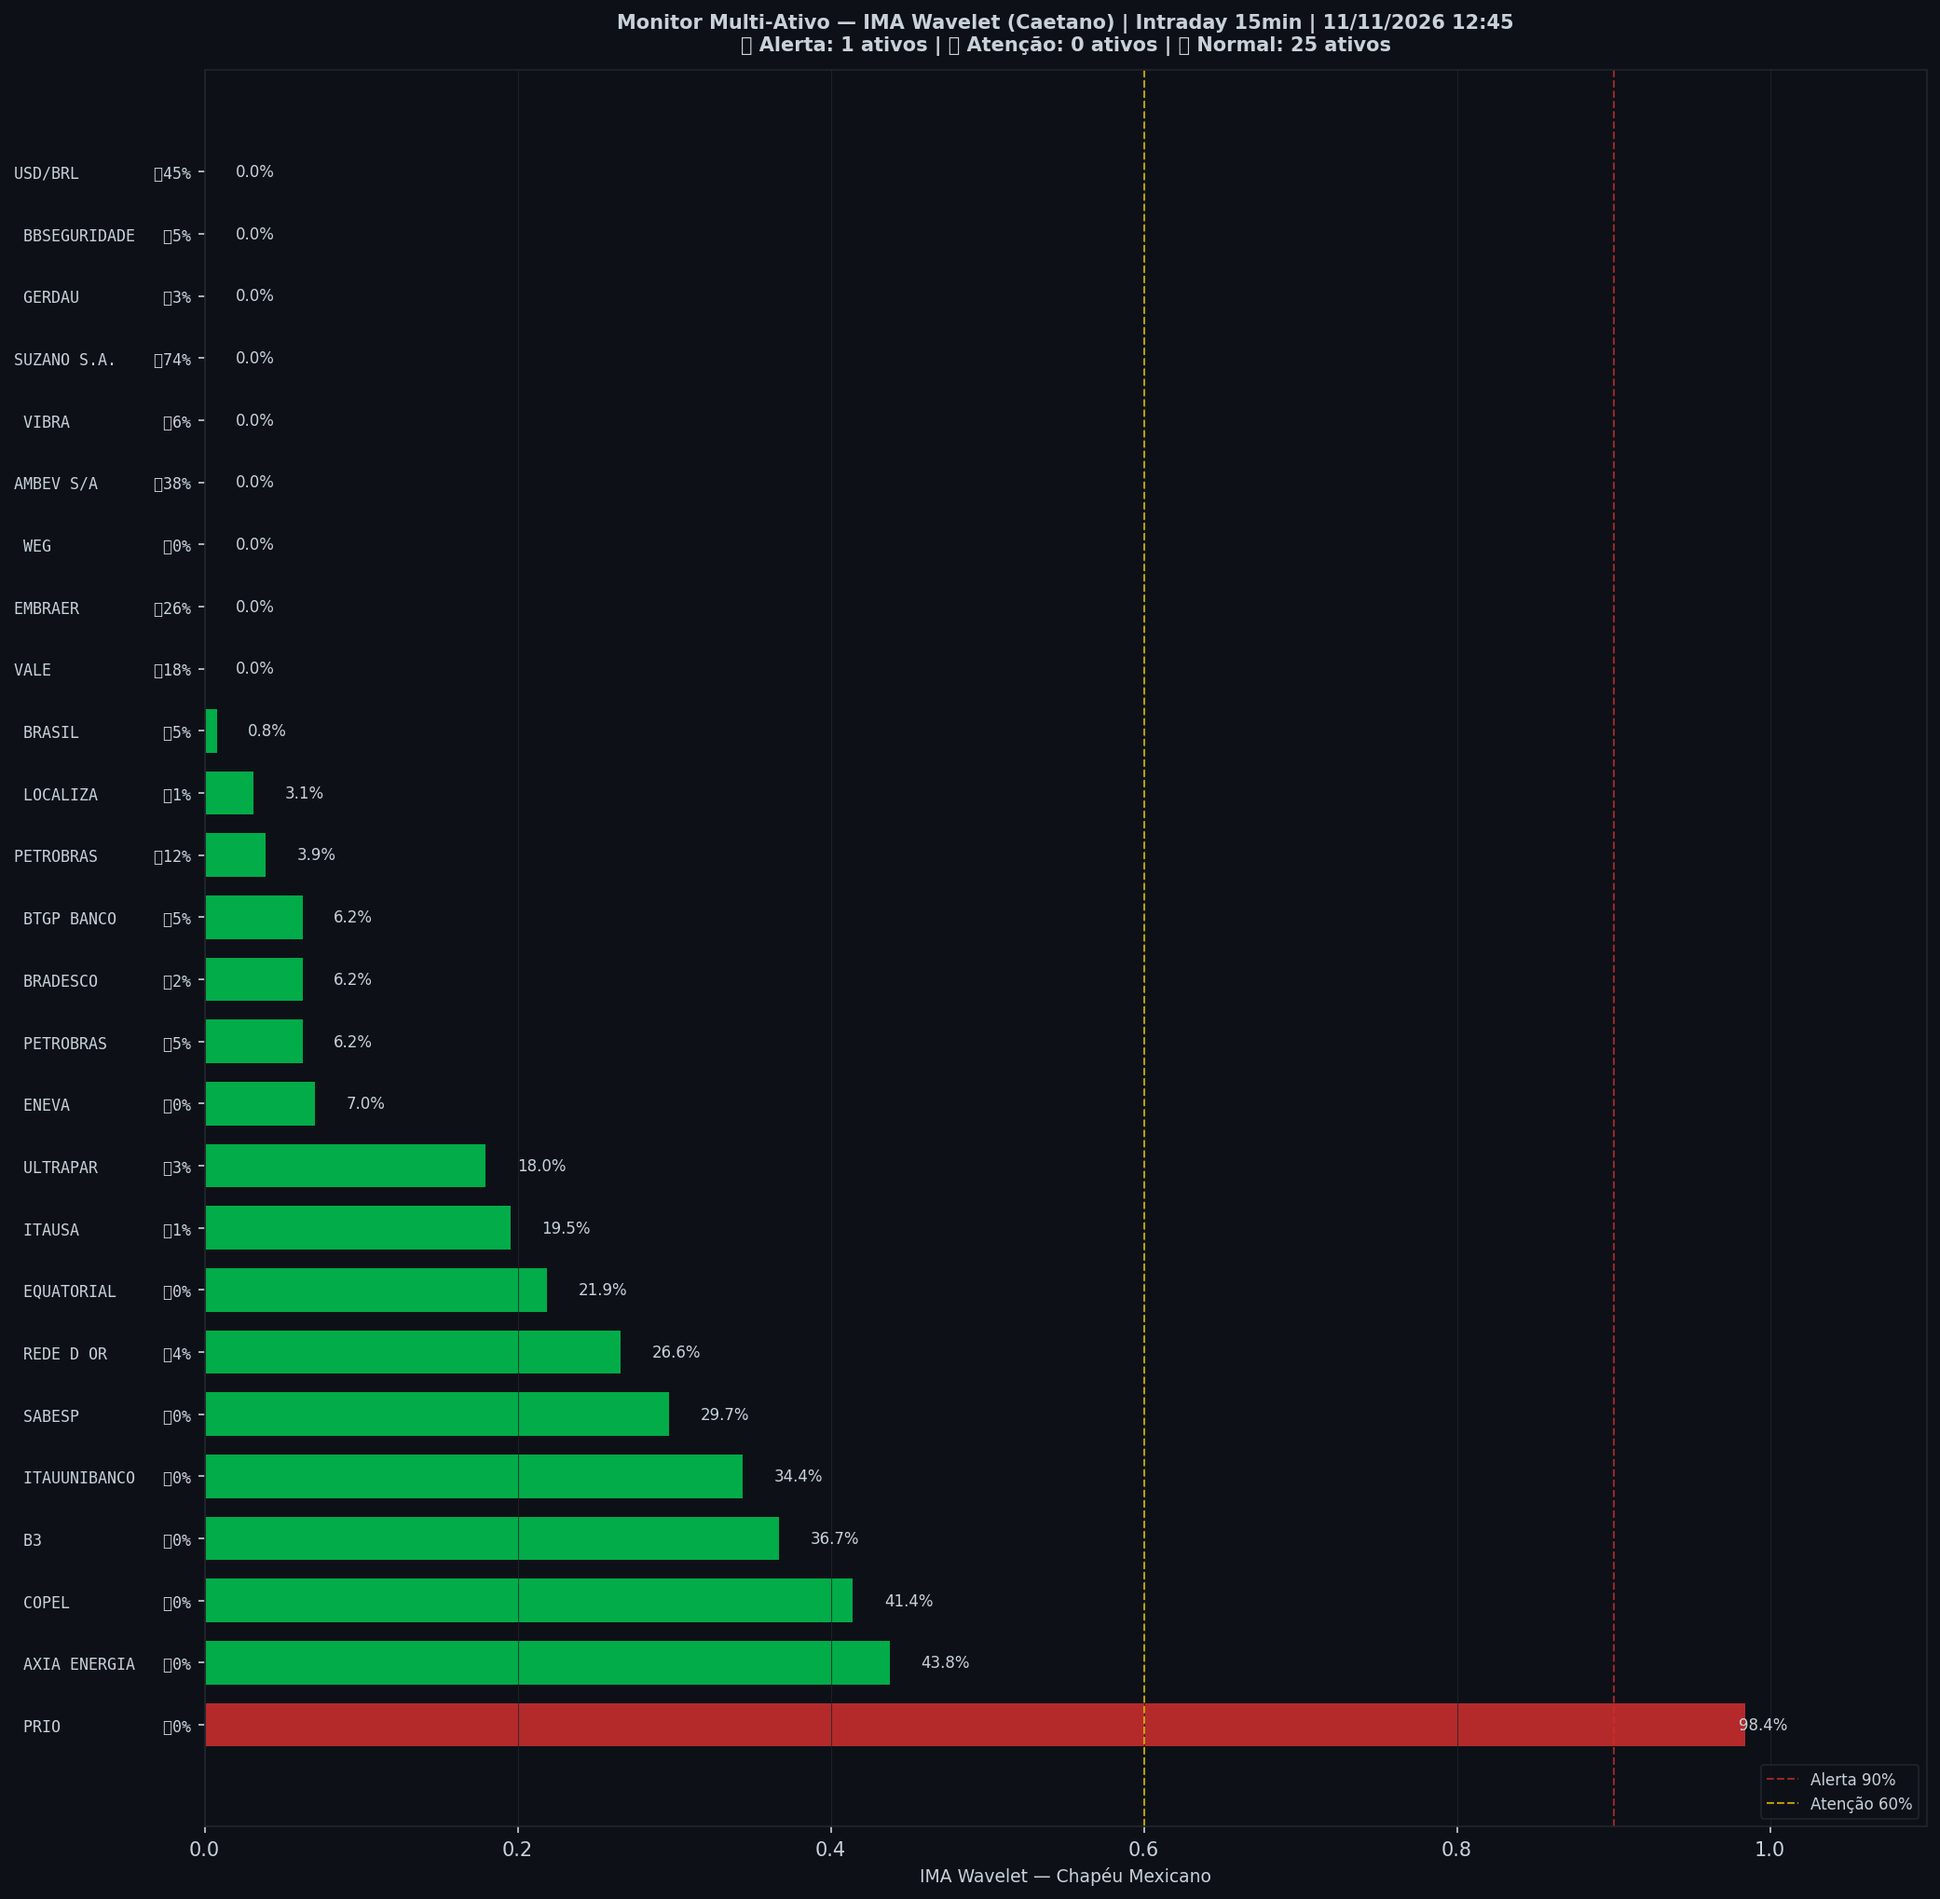
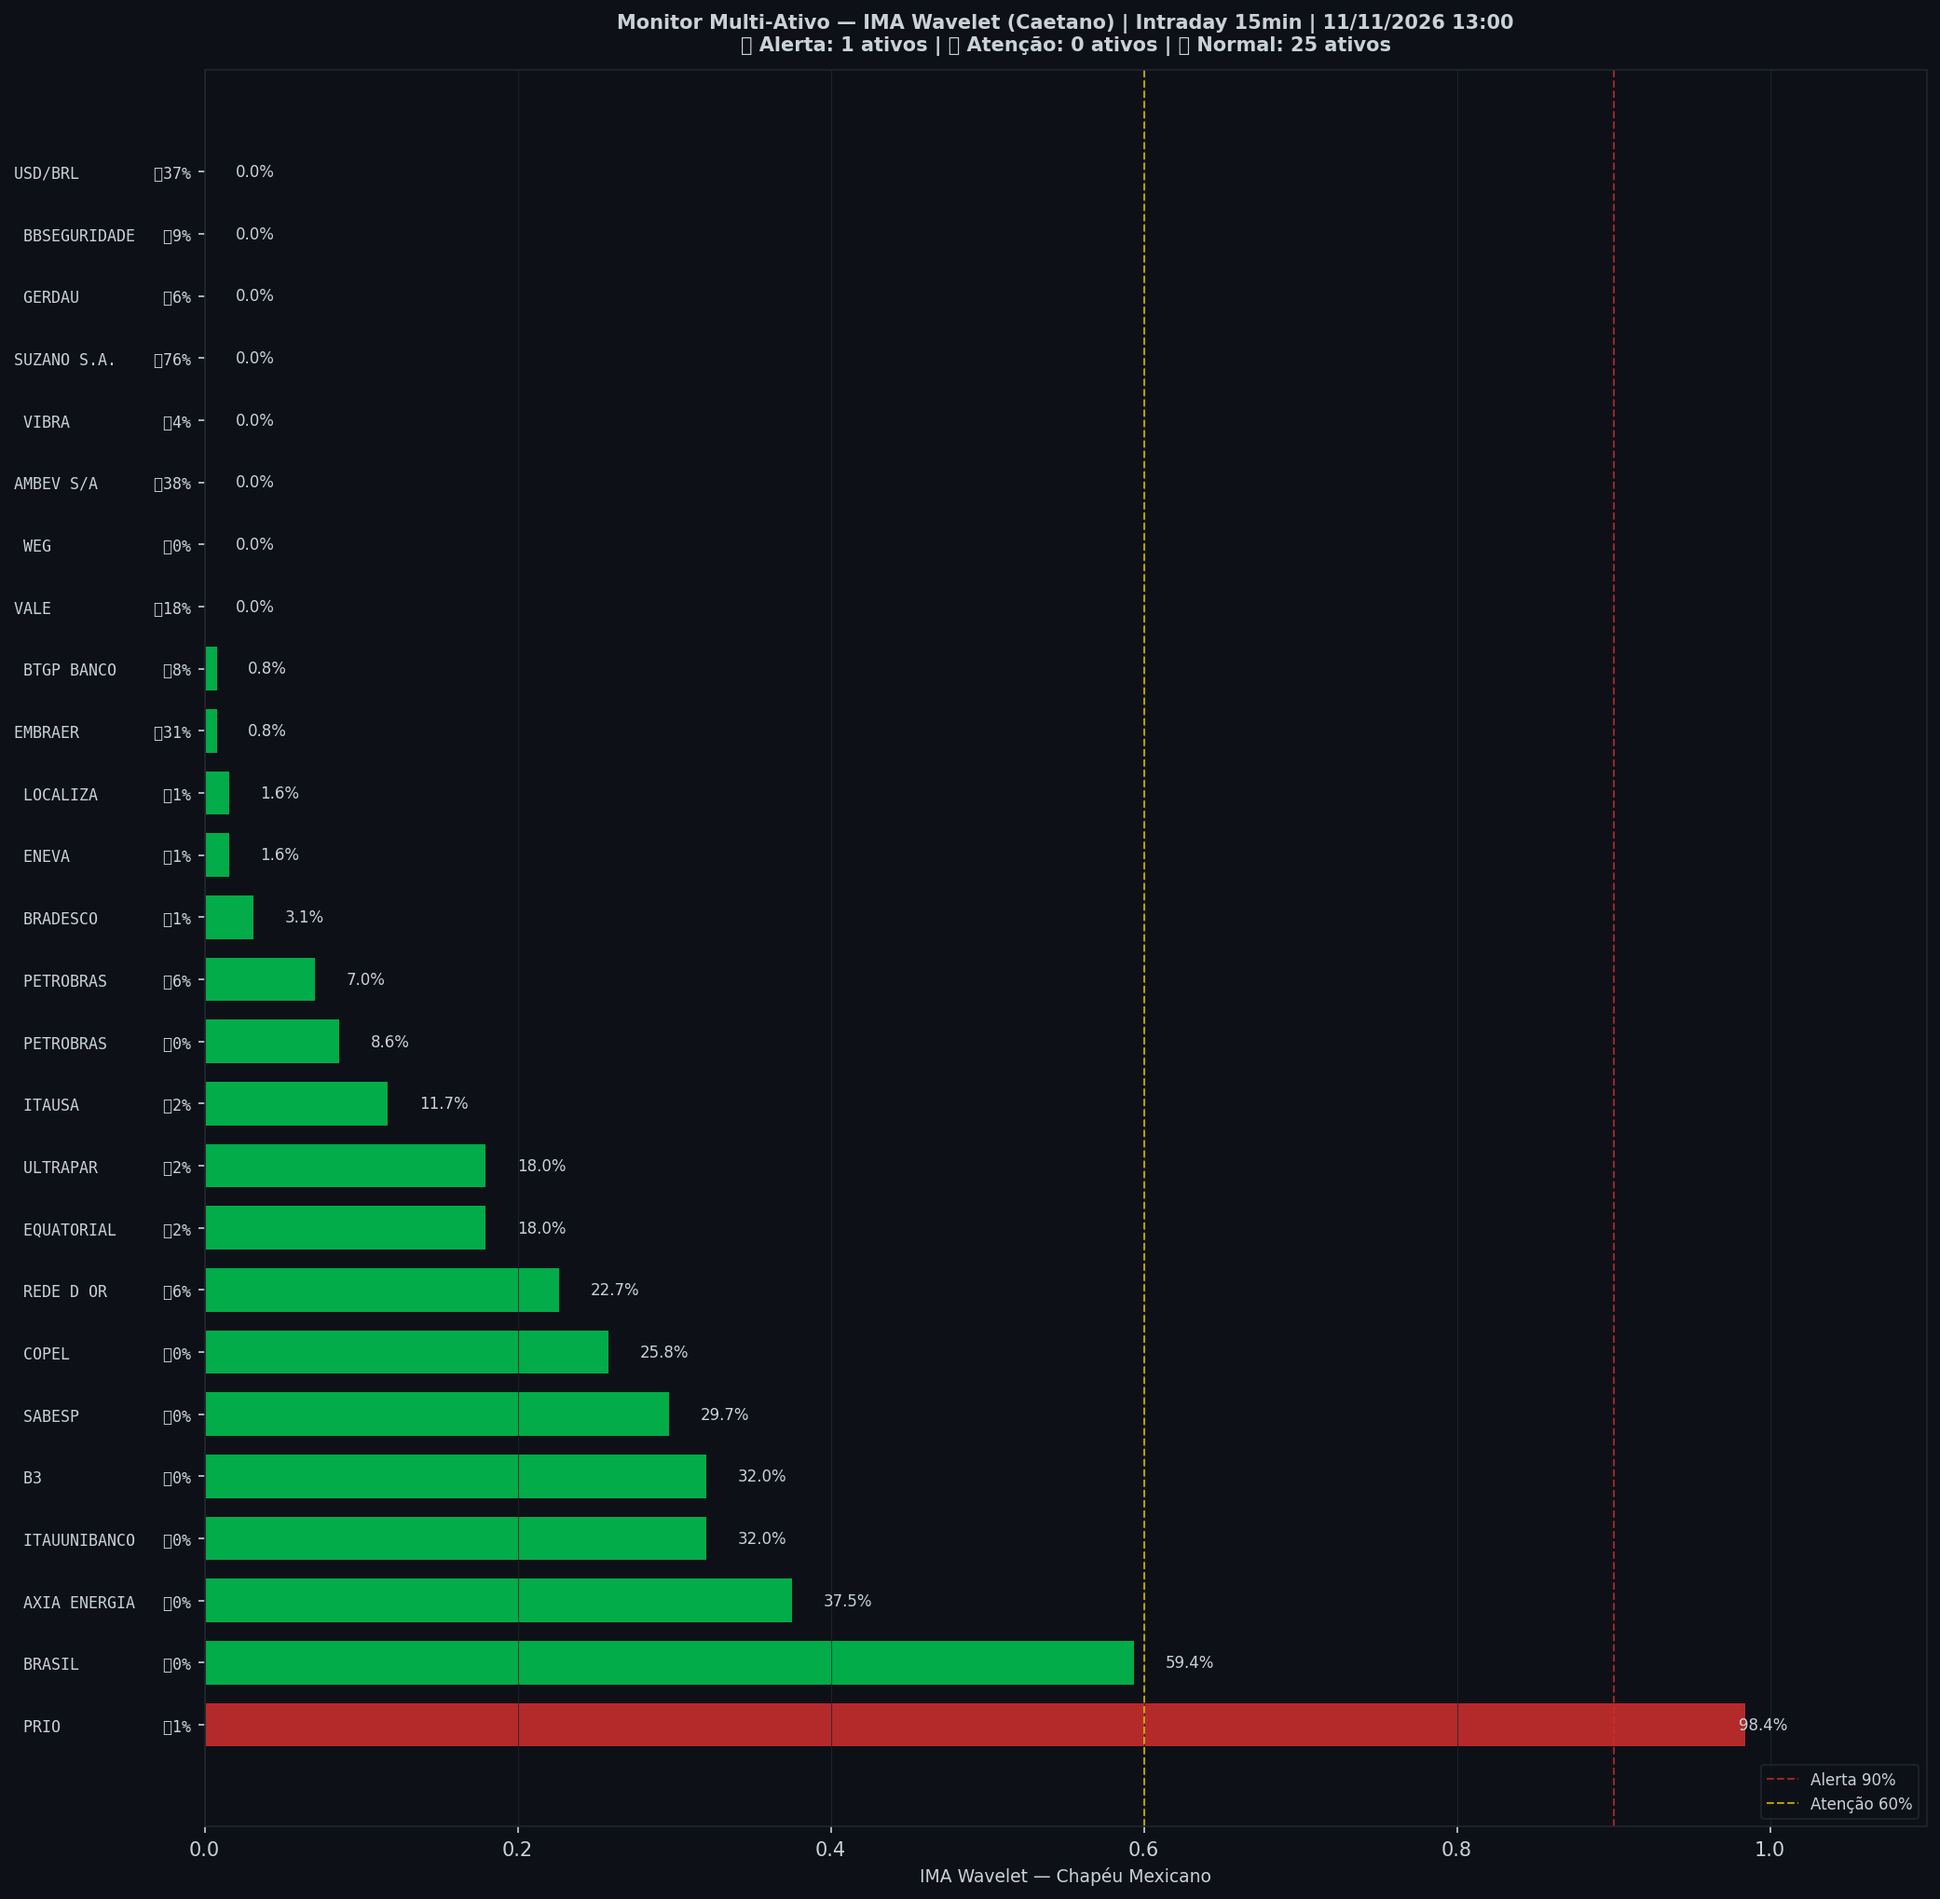
🤖 Auto: Sinal 11/11/2026 13:00

diff --git a/content/intraday/2026-11-11.md b/content/intraday/2026-11-11.md
@@ -1,10 +1,10 @@
 ---
-title: "🟢 Intraday 11/11/2026 12:30 BRT — VERDE"
+title: "🟢 Intraday 11/11/2026 12:45 BRT — VERDE"
 date: 2026-11-11
 tags: [intraday]
 ---
 
-> [!success] Onde o mercado está agora (11/11 12:30, candles de 15 min): **🟢 Calmo**
+> [!success] Onde o mercado está agora (11/11 12:45, candles de 15 min): **🟢 Calmo**
 > `Pânico ◀──────────●──────────▶ Euforia`
 >
 > O Ibovespa está dentro da sua faixa normal, sem excesso para cima nem para baixo.
@@ -20,7 +20,7 @@ tags: [intraday]
 > | 📍 **Sinais** | hoje: nenhum sinal | [abrir](sinais-topo-fundo/) |
 > | 🧪 **Placar ao vivo** | 1 operação(ões), 0 com lucro, soma -0,8% | [abrir](operacoes/) |
 
-> [!success] IMA Intraday · 15 min (11/11 12:30): 🟢 **VERDE** — Risco 0% · ＝ +0 p.p. vs leitura anterior
+> [!success] IMA Intraday · 15 min (11/11 12:45): 🟢 **VERDE** — Risco 0% · ＝ +0 p.p. vs leitura anterior
 > `░░░░░░░░░░░░░░░░░░░░`
 > Preço na faixa normal em torno da tendência.
 
@@ -32,13 +32,13 @@ tags: [intraday]
 >
 > *Leitura educacional baseada em 26 anos de dados, não recomendação. [Como usar](../metodologia/crise#3-como-usar-na-prática).*
 
-| Indicador — IMA Intraday · 15 min (11/11 12:30) | Valor |
+| Indicador — IMA Intraday · 15 min (11/11 12:45) | Valor |
 |---|---|
 | 🔴 ζ Topo — preço esticado acima da tendência | **0%** |
 | 🔵 ζ Fundo — preço esticado abaixo da tendência | 0% |
 | 🫧 LPPL bolha — alta super-exponencial (risco de crash) | 0% |
 | 🫧 LPPL antibolha — queda super-exponencial (risco de repique) | 0% |
-| 📊 Ibovespa | 172.890 pts |
+| 📊 Ibovespa | 172.664 pts |
 
 ![Gráfico do sinal](../graficos/sinal_intraday.png)
 
@@ -46,6 +46,7 @@ tags: [intraday]
 
 | Data | Zona | Evento | Risco | ζ Topo | ζ Fundo | LPPL |
 |---|---|---|---|---|---|---|
+| 2026-11-11 12:45 | 🟢 VERDE |  | **0%** | 0% | 0% | 0% |
 | 2026-11-11 12:30 | 🟢 VERDE |  | **0%** | 0% | 0% | 0% |
 | 2026-11-11 12:15 | 🟢 VERDE |  | **0%** | 0% | 0% | 0% |
 | 2026-11-11 12:00 | 🟢 VERDE |  | **2%** | 2% | 0% | 0% |
@@ -75,7 +76,6 @@ tags: [intraday]
 | 2026-11-10 14:15 | 🟢 VERDE |  | **0%** | 0% | 14% | 0% |
 | 2026-11-10 14:00 | 🟢 VERDE |  | **0%** | 0% | 15% | 0% |
 | 2026-11-10 13:45 | 🟢 VERDE |  | **0%** | 0% | 16% | 0% |
-| 2026-11-10 13:30 | 🟢 VERDE |  | **0%** | 0% | 15% | 0% |
 
 <small>Destaques: 🟡 ≥ 60% · 🔴 ≥ 90% (Risco e ζ Topo) · 🔵 ≥ 60% · 🔪 ≥ 90% (ζ Fundo) · 🫧 ≥ 30% · 🫧🔴 ≥ 50% (LPPL)</small>
 
@@ -84,42 +84,42 @@ tags: [intraday]
 **4% dos ativos em tensão** (1🔴 0🟡) · **1 com ζ Fundo alto** — quanto mais ativos disparam juntos, mais confiável o sinal.
 
 > [!danger] Em destaque no multi-ativo
-> 🔴 **PRIO** ζ Topo 98% · 🔵 **SUZANO S.A.** ζ Fundo 74%
+> 🔴 **PRIO** ζ Topo 98% · 🔵 **SUZANO S.A.** ζ Fundo 76%
 
 | Zona | Ativo | Setor | ζ Topo | ζ Fundo |
 |---|---|---|---|---|
-| 🔴 | **PRIO** | Petróleo | 🔴 **98.4%** | 0.0% |
-| 🟢 | **SUZANO S.A.** | Papel/Celulose | 0.0% | 🔵 **74.2%** |
-| 🟢 | **USD/BRL** | Câmbio | 0.0% | 44.5% |
-| 🟢 | **AXIA ENERGIA** | Energia | 43.8% | 0.0% |
-| 🟢 | **COPEL** | Energia | 41.4% | 0.0% |
+| 🔴 | **PRIO** | Petróleo | 🔴 **98.4%** | 0.8% |
+| 🟢 | **SUZANO S.A.** | Papel/Celulose | 0.0% | 🔵 **75.8%** |
+| 🟢 | **BRASIL** | Financeiro | 59.4% | 0.0% |
+| 🟢 | **AXIA ENERGIA** | Energia | 37.5% | 0.0% |
 | 🟢 | **AMBEV S/A** | Consumo | 0.0% | 37.5% |
-| 🟢 | **B3** | Financeiro | 36.7% | 0.0% |
-| 🟢 | **ITAUUNIBANCO** | Financeiro | 34.4% | 0.0% |
+| 🟢 | **USD/BRL** | Câmbio | 0.0% | 36.7% |
+| 🟢 | **ITAUUNIBANCO** | Financeiro | 32.0% | 0.0% |
+| 🟢 | **B3** | Financeiro | 32.0% | 0.0% |
+| 🟢 | **EMBRAER** | Outros | 0.8% | 31.2% |
 | 🟢 | **SABESP** | Saneamento | 29.7% | 0.0% |
-| 🟢 | **REDE D OR** | Saúde | 26.6% | 3.9% |
-| 🟢 | **EMBRAER** | Outros | 0.0% | 25.8% |
-| 🟢 | **EQUATORIAL** | Energia | 21.9% | 0.0% |
-| 🟢 | **ITAUSA** | Financeiro | 19.5% | 0.8% |
+| 🟢 | **COPEL** | Energia | 25.8% | 0.0% |
+| 🟢 | **REDE D OR** | Saúde | 22.7% | 6.2% |
 | 🟢 | **VALE** | Mineração | 0.0% | 18.0% |
-| 🟢 | **ULTRAPAR** | Outros | 18.0% | 3.1% |
-| 🟢 | **PETROBRAS** | Petróleo | 3.9% | 11.7% |
-| 🟢 | **ENEVA** | Energia | 7.0% | 0.0% |
-| 🟢 | **PETROBRAS** | Petróleo | 6.2% | 4.7% |
-| 🟢 | **BRADESCO** | Financeiro | 6.2% | 2.3% |
-| 🟢 | **BTGP BANCO** | Financeiro | 6.2% | 4.7% |
-| 🟢 | **VIBRA** | Energia | 0.0% | 6.2% |
-| 🟢 | **BBSEGURIDADE** | Financeiro | 0.0% | 5.5% |
-| 🟢 | **BRASIL** | Financeiro | 0.8% | 4.7% |
-| 🟢 | **GERDAU** | Siderurgia | 0.0% | 3.1% |
-| 🟢 | **LOCALIZA** | Aluguel | 3.1% | 0.8% |
+| 🟢 | **EQUATORIAL** | Energia | 18.0% | 1.6% |
+| 🟢 | **ULTRAPAR** | Outros | 18.0% | 1.6% |
+| 🟢 | **ITAUSA** | Financeiro | 11.7% | 2.3% |
+| 🟢 | **BBSEGURIDADE** | Financeiro | 0.0% | 9.4% |
+| 🟢 | **PETROBRAS** | Petróleo | 8.6% | 0.0% |
+| 🟢 | **BTGP BANCO** | Financeiro | 0.8% | 7.8% |
+| 🟢 | **PETROBRAS** | Petróleo | 7.0% | 6.2% |
+| 🟢 | **GERDAU** | Siderurgia | 0.0% | 6.2% |
+| 🟢 | **VIBRA** | Energia | 0.0% | 3.9% |
+| 🟢 | **BRADESCO** | Financeiro | 3.1% | 0.8% |
+| 🟢 | **ENEVA** | Energia | 1.6% | 0.8% |
+| 🟢 | **LOCALIZA** | Aluguel | 1.6% | 0.8% |
 | 🟢 | **WEG** | Industrial | 0.0% | 0.0% |
 
 <small>Destaques: 🟡 ≥ 60% · 🔴 ≥ 90% (Risco e ζ Topo) · 🔵 ≥ 60% · 🔪 ≥ 90% (ζ Fundo) · 🫧 ≥ 30% · 🫧🔴 ≥ 50% (LPPL)</small>
 
 ![Monitor multi-ativo](../graficos/multi_intraday.png)
 
-*Página atualizada em 11/11/2026 12:45 BRT (leitura da barra de 2026-11-11 12:30 BRT).*
+*Página atualizada em 11/11/2026 13:00 BRT (leitura da barra de 2026-11-11 12:45 BRT).*
 
 > [!warning] O que este indicador não faz
 > Medido em 5 anos de Ibovespa, o ζ **não antecipa** topos nem fundos: a capacidade de separar o que sobe do que cai ficou em 0,49–0,52, e 0,50 é moeda jogada ao ar. Ele descreve o estado de agora; não é aviso do que vem. As zonas verde/amarelo/vermelho continuam na página como descrição desse estado — **não as use como sinal de entrada ou saída**.

diff --git a/content/index.md b/content/index.md
@@ -6,9 +6,9 @@ tags: [home]
 
 **As ondas do mercado, explicadas.** Leitura do Ibovespa com estatística de 26 anos, baseada no trabalho de pesquisadores e traders reconhecidos e adaptada por Jarbas Daniel da Costa.
 
-*Última atualização: 11/11/2026 12:45 BRT · Intraday 15min*
+*Última atualização: 11/11/2026 13:00 BRT · Intraday 15min*
 
-> [!success] Onde o mercado está agora (11/11 12:30, candles de 15 min): **🟢 Calmo**
+> [!success] Onde o mercado está agora (11/11 12:45, candles de 15 min): **🟢 Calmo**
 > `Pânico ◀──────────●──────────▶ Euforia`
 >
 > O Ibovespa está dentro da sua faixa normal, sem excesso para cima nem para baixo.
@@ -44,18 +44,18 @@ tags: [home]
 > *Leitura educacional baseada em 26 anos de dados, não recomendação. [Como usar](metodologia/crise#3-como-usar-na-prática).*
 
 > [!info]- 🌊 Detalhes do Sinal IMA (indicadores e últimos 7 pregões)
-> > [!success] IMA Intraday · 15 min (11/11 12:30): 🟢 **VERDE** — Risco 0% · ＝ +0 p.p. vs leitura anterior
+> > [!success] IMA Intraday · 15 min (11/11 12:45): 🟢 **VERDE** — Risco 0% · ＝ +0 p.p. vs leitura anterior
 > > `░░░░░░░░░░░░░░░░░░░░`
 > > Preço na faixa normal em torno da tendência.
 >
 >
-> | Indicador — IMA Intraday · 15 min (11/11 12:30) | Valor |
+> | Indicador — IMA Intraday · 15 min (11/11 12:45) | Valor |
 > |---|---|
 > | 🔴 ζ Topo — preço esticado acima da tendência | **0%** |
 > | 🔵 ζ Fundo — preço esticado abaixo da tendência | 0% |
 > | 🫧 LPPL bolha — alta super-exponencial (risco de crash) | 0% |
 > | 🫧 LPPL antibolha — queda super-exponencial (risco de repique) | 0% |
-> | 📊 Ibovespa | 172.890 pts |
+> | 📊 Ibovespa | 172.664 pts |
 >
 > **Multi-ativo:** 4% em tensão (1🔴 0🟡 de 26 ativos)
 >

diff --git a/content/historico.md b/content/historico.md
@@ -5,7 +5,7 @@ tags: [historico]
 
 # 📜 Histórico de leituras (v5)
 
-**2.289 leituras** desde 2026-07-03. Na página ficam os últimos 3 dias leitura por leitura e o resumo de cada dia anterior; o registro inteiro está no arquivo para baixar.
+**2.290 leituras** desde 2026-07-03. Na página ficam os últimos 3 dias leitura por leitura e o resumo de cada dia anterior; o registro inteiro está no arquivo para baixar.
 
 [**Baixar o histórico completo**](historico-completo.csv) (100 KB · abre no Excel e no LibreOffice)
 
@@ -16,6 +16,7 @@ tags: [historico]
 
 | Data | Modo | Zona | Risco | IMA | LPPL |
 |---|---|---|---|---|---|
+| 2026-11-11 12:45 | intraday | 🟢 VERDE | 0% | 0% | 0% |
 | 2026-11-11 12:30 | intraday | 🟢 VERDE | 0% | 0% | 0% |
 | 2026-11-11 12:15 | intraday | 🟢 VERDE | 0% | 0% | 0% |
 | 2026-11-11 12:00 | intraday | 🟢 VERDE | 2% | 2% | 0% |

diff --git a/content/operacoes/ranking.md b/content/operacoes/ranking.md
@@ -5,7 +5,7 @@ tags: [operacoes]
 description: "As regras de compra do site ordenadas pelo resultado, com treino, teste e placar ao vivo"
 ---
 
-*Atualizado 11/11/2026 12:45 · histórico simulado com as regras congeladas em 23/10/2026 + placar ao vivo.*
+*Atualizado 11/11/2026 13:00 · histórico simulado com as regras congeladas em 23/10/2026 + placar ao vivo.*
 
 As regras de compra do site, **da que mais rendeu para a que menos rendeu**. O resultado é por operação, no índice à vista, sem custos e sem juros compostos (a soma é só a soma das operações). **Treino** = entradas de 2001 a 2013 e **teste** = 2014 em diante: uma regra só é confiável se ganhou nos dois. O único resultado sem nenhum ajuste ao histórico é o **placar ao vivo**.
 

diff --git a/content/linha-do-tempo/index.md b/content/linha-do-tempo/index.md
@@ -5,7 +5,7 @@ description: "Todo sinal, ordem, stop e aviso do Pêndulo de Mercado, do mais re
 tags: [eventos]
 ---
 
-*Atualizada 11/11/2026 12:45 BRT · a cada 15 min no pregão e às 19h.*
+*Atualizada 11/11/2026 13:00 BRT · a cada 15 min no pregão e às 19h.*
 
 Tudo o que o sistema fez ou detectou, **do mais recente para o mais antigo**: sinais de topo e fundo, ordens de compra e de venda armadas, compras, vendas, stops, avisos de 🚨 preço perto do nível e mudanças do Sinal IMA. Os **últimos 7 dias** ficam abertos; o resto, por **ano → mês → dia**.
 
